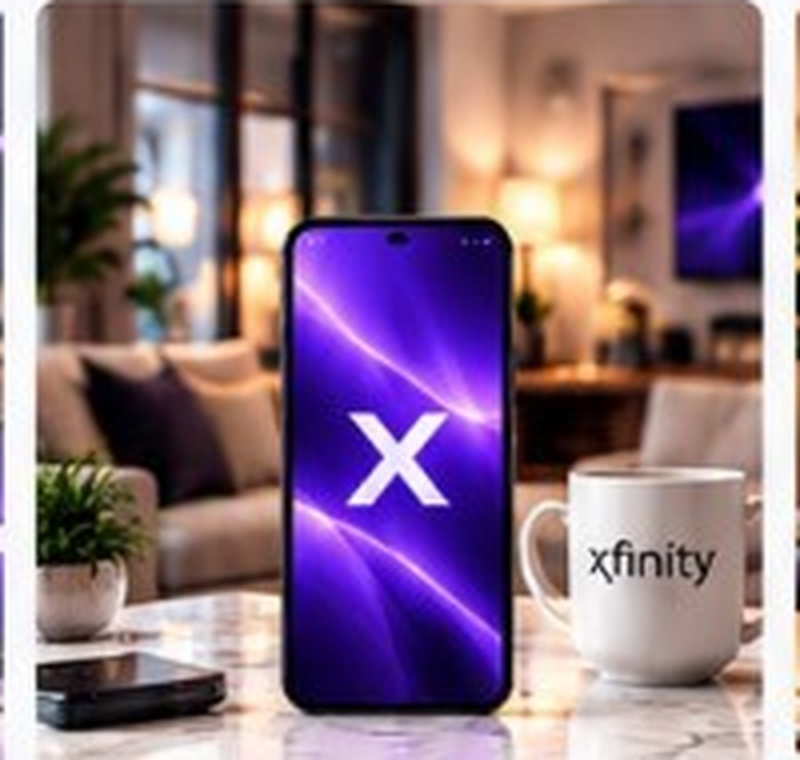
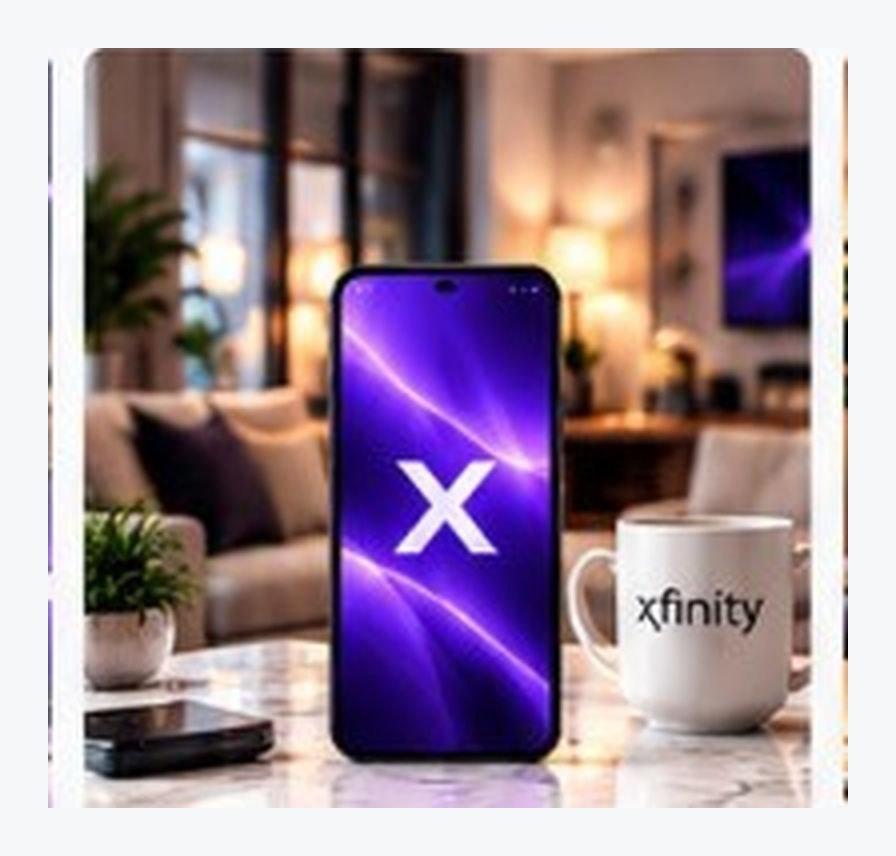
Equalize service card image wells with contain-only rendering

diff --git a/src/app/services/xfinity-residential/page.tsx b/src/app/services/xfinity-residential/page.tsx
@@ -36,8 +36,8 @@ const SELECTOR_CARDS = [
     href: "/quote/internet",
     src: "/images/xfinity/service-internet-ref.jpg",
     alt: "Slim white Xfinity internet gateway on a living-room table next to a laptop",
-    width: 600,
-    height: 730,
+    width: 696,
+    height: 826,
     icon: "wifi" as const,
   },
   {
@@ -54,8 +54,8 @@ const SELECTOR_CARDS = [
     href: "/quote/mobile",
     src: "/images/xfinity/service-mobile.jpg",
     alt: "Smartphone with Xfinity branding next to an Xfinity coffee mug",
-    width: 800,
-    height: 760,
+    width: 896,
+    height: 856,
     icon: "phone" as const,
   },
   {
@@ -289,8 +289,8 @@ export default function XfinityResidentialPage() {
                 key={card.title}
                 className="flex h-full flex-col rounded-2xl border border-[#e6e8ee] bg-white shadow-[0_10px_28px_-20px_rgba(10,10,18,0.35)]"
               >
-                {/* Image area: contain only — never crop products (esp. streaming box) */}
-                <div className="flex items-center justify-center overflow-visible rounded-t-2xl bg-[#f6f7f9] px-3 pt-3 sm:px-4 sm:pt-4">
+                {/* Equal-height image wells: contain only — never crop products */}
+                <div className="flex aspect-[4/3] items-center justify-center overflow-hidden rounded-t-2xl bg-[#f6f7f9] p-3 sm:p-4">
                   <Image
                     src={card.src}
                     alt={card.alt}
@@ -298,7 +298,7 @@ export default function XfinityResidentialPage() {
                     height={card.height}
                     sizes="(max-width: 768px) 100vw, 33vw"
                     quality={95}
-                    className="h-auto w-full object-contain object-center"
+                    className="h-full max-h-full w-full object-contain object-center"
                   />
                 </div>
                 <div className="flex flex-1 flex-col px-5 pb-6 pt-5 sm:px-6 sm:pb-7">
